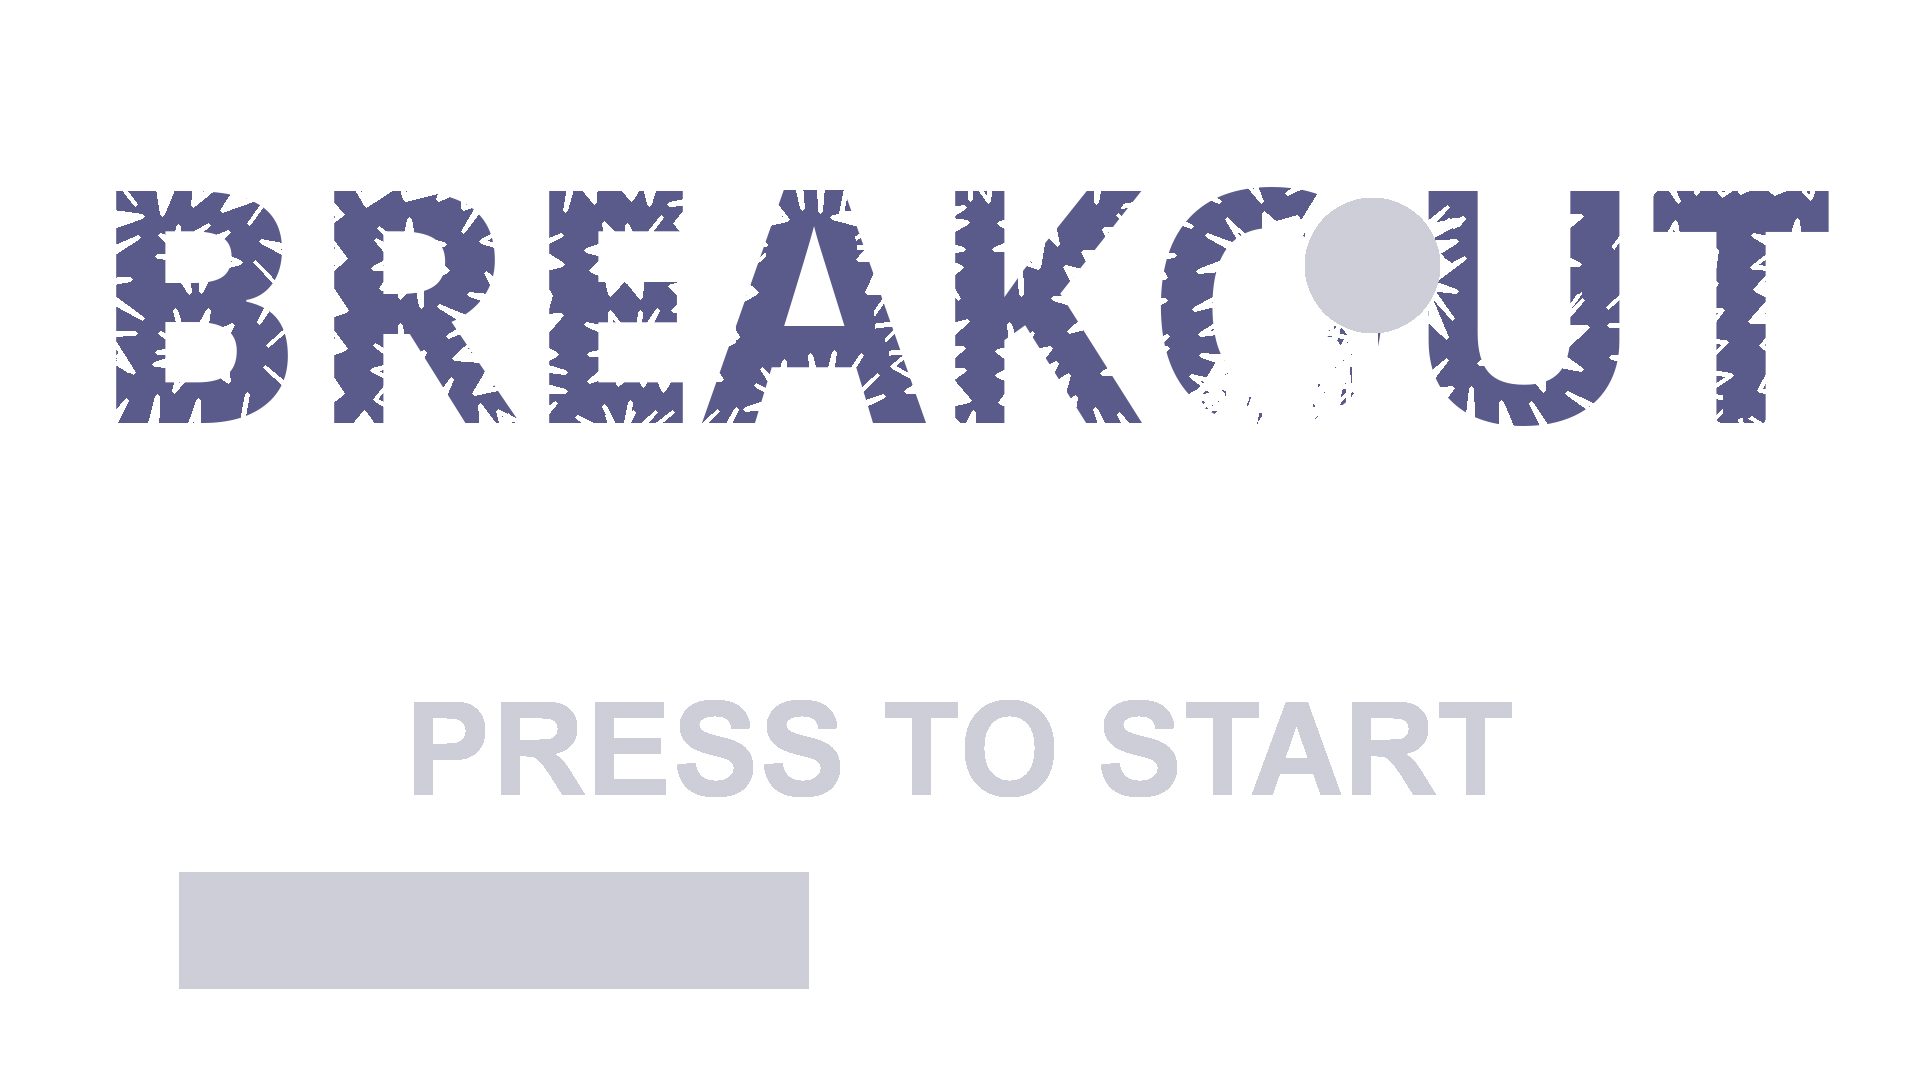
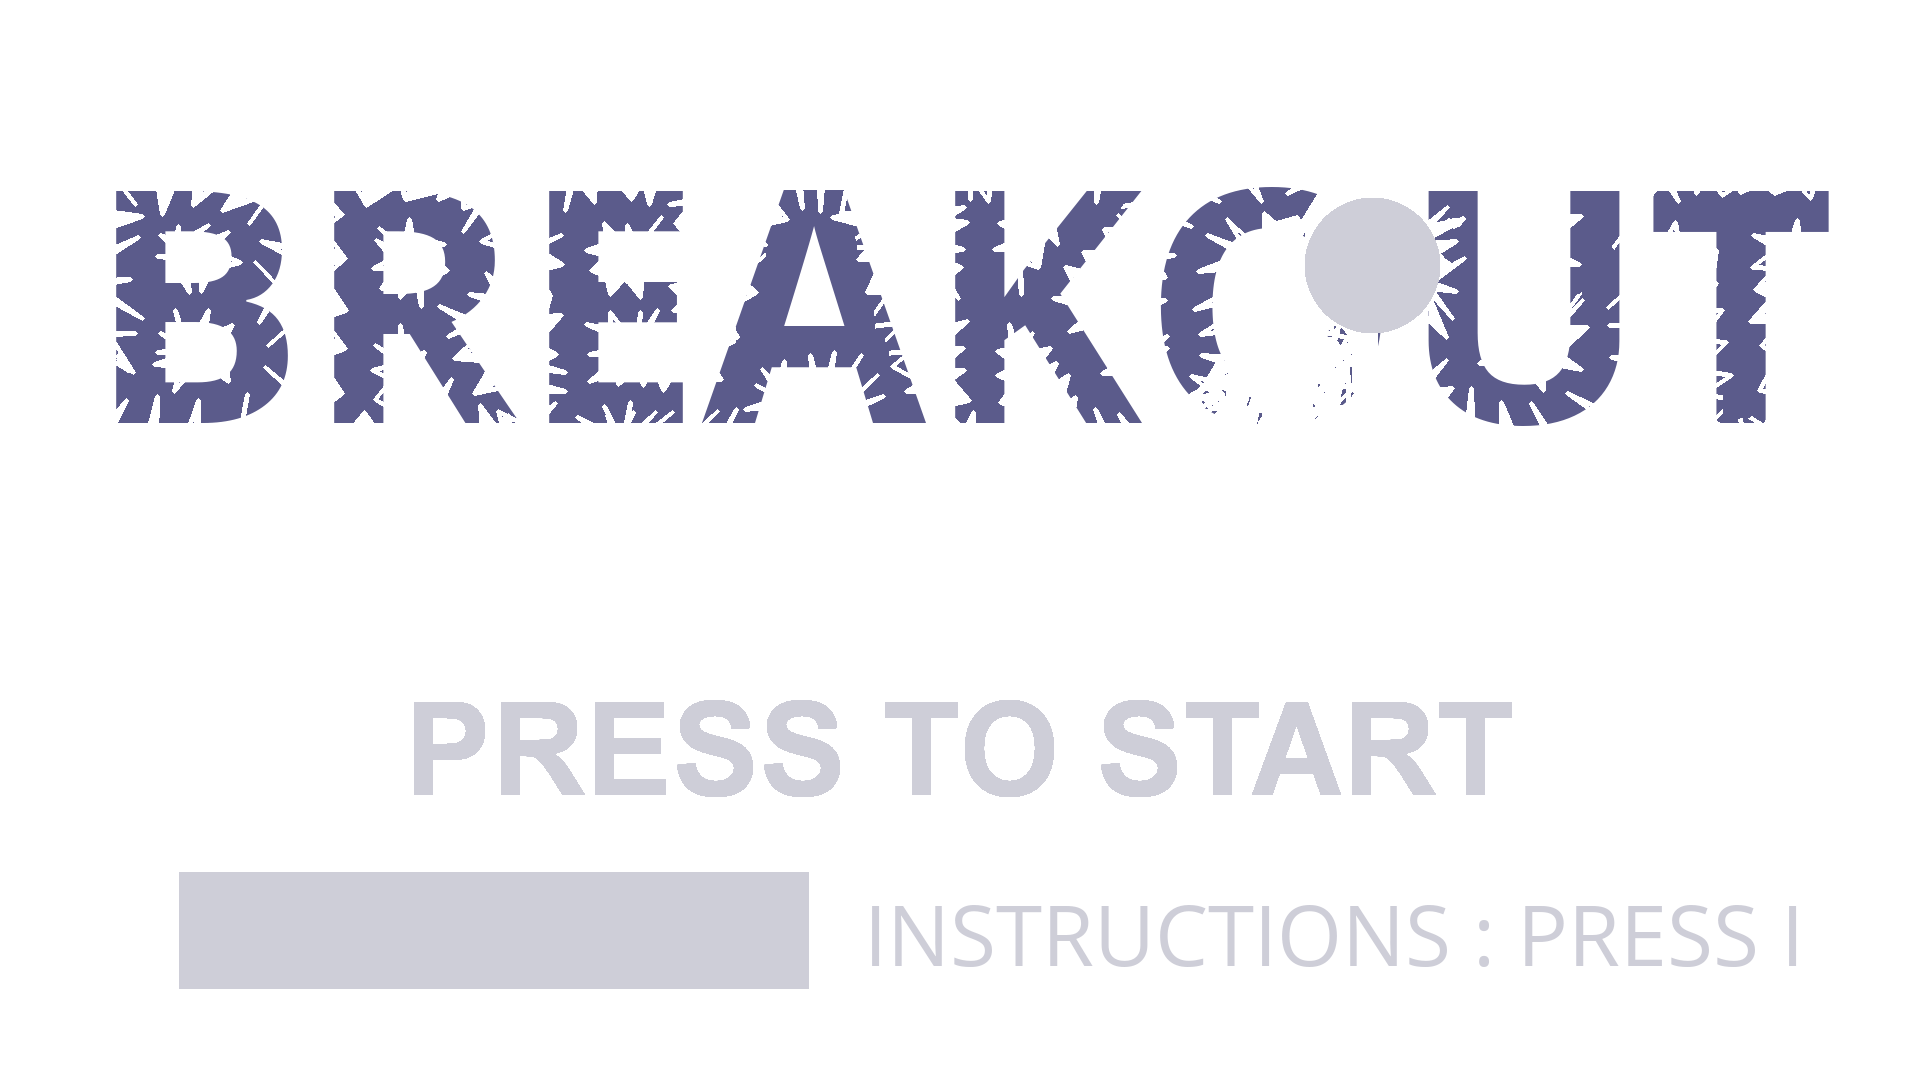
Instructions

Changed region(s): [[0.4375, 0.825, 0.75, 0.9167], [0.7812, 0.825, 0.9375, 0.9167]]

diff --git a/BreakOut/BreakOut/BreakOut/Pages/InstructionPage.cs b/BreakOut/BreakOut/BreakOut/Pages/InstructionPage.cs
@@ -1,0 +1,73 @@
+
+using Microsoft.Xna.Framework;
+using Microsoft.Xna.Framework.Content;
+using Microsoft.Xna.Framework.Graphics;
+using Microsoft.Xna.Framework.Input;
+using System;
+using System.Collections.Generic;
+using System.Linq;
+using System.Text;
+
+
+namespace BreakOut {
+
+    public class InstructionPage : Page {
+
+        /// <summary>
+        /// Gets or sets the button return.
+        /// </summary>
+        /// <value>The button return.</value>
+        public Button ButtonReturn { get; set; }
+        public Texture2D Line { get; set; }
+        public Sprite Instructions { get; set; }
+        public InstructionPage(GraphicsDeviceManager graphics, int screenWidth, int screenHeight)
+            : base(graphics, screenWidth, screenHeight) {
+        }
+
+        /// <summary>
+        /// Initializes this instance.
+        /// </summary>
+        public override void Initialize() {
+            this.Instructions = new Sprite(0, 0, this.ScreenWidth, this.ScreenHeight, 0, 0, 0);
+            this.ButtonReturn = new Button(this.DefaultUnitX, 2 * this.DefaultUnitY, 2 * this.DefaultUnitX, this.DefaultUnitY);
+
+            //Line
+            this.Line = new Texture2D(this.Graphics.GraphicsDevice, 1, 1, false, SurfaceFormat.Color);
+            Int32[] pixel = { 0xFFFFFF };
+            this.Line.SetData<Int32>(pixel, 0, this.Line.Width * this.Line.Height);
+        }
+
+        /// <summary>
+        /// Loads the content.
+        /// </summary>
+        /// <param name="content">The content.</param>
+        public override void LoadContent(ContentManager content) {
+            ButtonReturn.LoadContent(content, "return");
+            Instructions.LoadContent(content, "instructions");
+        }
+
+        /// <summary>
+        /// Handles the input.
+        /// </summary>
+        /// <param name="previousKeyboardState">State of the previous keyboard.</param>
+        /// <param name="currentKeyboardState">State of the current keyboard.</param>
+        /// <param name="previousMouseState">State of the previous mouse.</param>
+        /// <param name="currentMouseState">State of the current mouse.</param>
+        public override void HandleInput(KeyboardState previousKeyboardState, KeyboardState currentKeyboardState, MouseState previousMouseState, MouseState currentMouseState) {
+            this.ButtonReturn.HandleInput(previousKeyboardState, currentKeyboardState, previousMouseState, currentMouseState);
+        }
+
+        /// <summary>
+        /// Draws the page.
+        /// </summary>
+        /// <param name="spriteBatch">The sprite batch.</param>
+        /// <param name="gameTime">The game time.</param>
+        public override void Draw(SpriteBatch spriteBatch, GameTime gameTime) {
+            Instructions.Draw(spriteBatch, gameTime);/*
+            spriteBatch.Begin();
+            spriteBatch.Draw(this.Line, new Rectangle((int)(6 * this.DefaultUnitX), (int)(4 * this.DefaultUnitY), (int)(20 * this.DefaultUnitX), 1), Color.White);
+            spriteBatch.End();*/
+            ButtonReturn.Draw(spriteBatch, gameTime);
+        }
+    }
+}

diff --git a/BreakOut/BreakOut/BreakOut/BreakOut.cs b/BreakOut/BreakOut/BreakOut/BreakOut.cs
@@ -135,7 +135,12 @@ namespace BreakOut {
         /// </summary>
         /// <value>The pause page.</value>
         public PausePage PausePage { get; set; }
+        /// <summary>
+        /// Gets or sets the score page.
+        /// </summary>
+        /// <value>The score page.</value>
         public ScorePage ScorePage { get; set; }
+        public InstructionPage InstructionPage { get; set; }
         /// <summary>
         /// Initializes a new instance of the <see cref="BreakOut"/> class.
         /// </summary>
@@ -171,6 +176,8 @@ namespace BreakOut {
             this.PausePage.Initialize();
             this.ScorePage = new ScorePage(graphics, this.ScreenWidth, this.ScreenHeight, "highScores",8);
             this.ScorePage.Initialize();
+            this.InstructionPage = new InstructionPage(graphics, this.ScreenWidth, this.ScreenHeight);
+            this.InstructionPage.Initialize();
 
             base.Initialize();
         }
@@ -191,6 +198,7 @@ namespace BreakOut {
             FinishPage.LoadContent(this.Content);
             PausePage.LoadContent(this.Content);
             ScorePage.LoadContent(this.Content);
+            InstructionPage.LoadContent(this.Content);
 
             //Inputs
             this.CurrentKeyBoardState = Keyboard.GetState();
@@ -235,6 +243,9 @@ namespace BreakOut {
                         || (this.CurrentKeyBoardState.IsKeyDown(Keys.Space) && this.PreviousKeyBoardState.IsKeyUp(Keys.Space))) {
                         CurrentGameState = GameState.DifficultySelection;
                     }
+                    if (this.CurrentKeyBoardState.IsKeyDown(Keys.I)) {
+                        CurrentGameState = GameState.Instruction;
+                    }
                     break;
                 case GameState.DifficultySelection:
                     this.UpdateDifficultySelection(gameTime);
@@ -259,6 +270,16 @@ namespace BreakOut {
                     if (ScorePage.ButtonReturn.IsClicked) {
                         ScorePage.ButtonReturn.IsClicked = false;
                         CurrentGameState = GameState.DifficultySelection;
+                    }
+                    break;
+                case GameState.Instruction:
+                    InstructionPage.HandleInput(this.PreviousKeyBoardState, this.CurrentKeyBoardState, this.PreviousMouseState, this.CurrentMouseState);
+                    if (this.IsGoingBack()) {
+                        CurrentGameState = GameState.MainMenu;
+                    }
+                    if (InstructionPage.ButtonReturn.IsClicked) {
+                        InstructionPage.ButtonReturn.IsClicked = false;
+                        CurrentGameState = GameState.MainMenu;
                     }
                     break;
             }
@@ -294,6 +315,9 @@ namespace BreakOut {
                     break;
                 case GameState.Score:
                     ScorePage.Draw(this.spriteBatch, gameTime);
+                    break;
+                case GameState.Instruction:
+                    InstructionPage.Draw(this.spriteBatch, gameTime);
                     break;
             }
 

diff --git a/BreakOut/BreakOut/BreakOut/GameState.cs b/BreakOut/BreakOut/BreakOut/GameState.cs
@@ -46,6 +46,10 @@ namespace BreakOut {
         /// <summary>
         /// The score page
         /// </summary>
-        Score
+        Score,
+        /// <summary>
+        /// The instruction page
+        /// </summary>
+        Instruction
     }
 }
